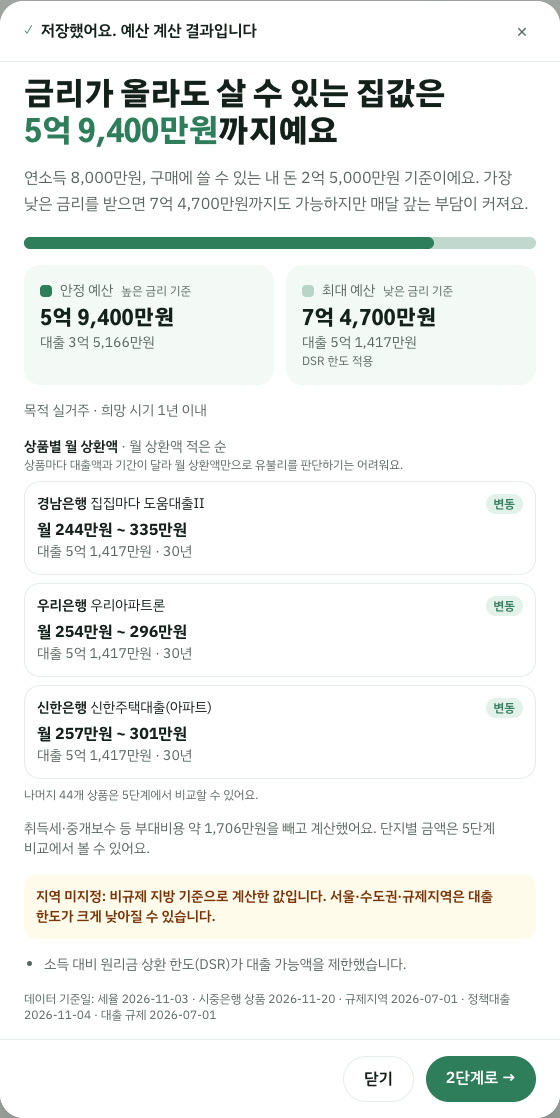
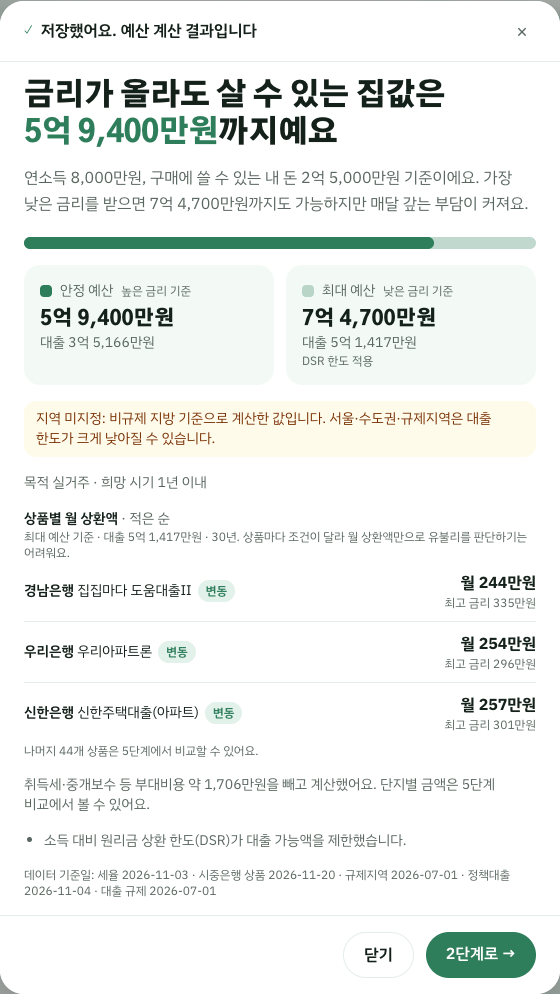
fix(budget): 지역 안내를 예산 숫자 바로 아래로, 상품 대출 기준은 제목에 한 번만
- '지역 미지정' 안내가 맨 아래에 있어 숫자만 보고 떠나기 쉬웠다. 헤드라인 바로 아래로 옮기고 강조를 낮췄다
- 상품 대출액(최대 예산 기준)이 헤드라인(안정 예산)과 달라 헷갈렸다. 제목에 '최대 예산 기준 · 대출 · 기간'을 밝히고
  카드마다 반복되던 대출·기간을 지워 한 줄 목록으로. 상품마다 다르면 줄마다 표시

Changed region(s): [[0.0304, 0.0, 0.9714, 0.9356], [0.7589, 0.9356, 0.9714, 0.998], [0.6375, 0.9356, 0.6982, 0.9668]]

diff --git a/apps/web/app/plans/[planId]/_components/BudgetCard.tsx b/apps/web/app/plans/[planId]/_components/BudgetCard.tsx
@@ -59,6 +59,10 @@ export function BudgetCard({ result, flat = false, income, detail = false }: { r
       ) : (
         <div className="space-y-4 text-sm">
           <BudgetHeadline data={data} income={income} />
+          {/* 헤드라인 숫자의 전제라 숫자 바로 아래에 둔다 */}
+          {data.diagnoses.includes("region_unspecified") && (
+            <p className="rounded-xl bg-amber-50 px-3 py-2 text-amber-900">{DIAGNOSES.region_unspecified}</p>
+          )}
           {data.profile_summary && (
             <p className="text-chb-muted">
               {[data.profile_summary.purpose && `목적 ${PURPOSE[data.profile_summary.purpose]}`,
@@ -80,9 +84,6 @@ export function BudgetCard({ result, flat = false, income, detail = false }: { r
           ) : (
             // 예산 계산식이 부대비용을 빼므로 총액은 남긴다. 후보별 내역은 5단계 비교표
             <p className="text-chb-muted">취득세·중개보수 등 부대비용 약 {formatWon(data.costs.total)}을 빼고 계산했어요. 단지별 금액은 5단계 비교에서 볼 수 있어요.</p>
-          )}
-          {data.diagnoses.includes("region_unspecified") && (
-            <p role="alert" className="rounded-xl bg-amber-50 p-3 font-semibold text-amber-900">{DIAGNOSES.region_unspecified}</p>
           )}
           <Diagnoses list={data.diagnoses.filter((d) => d !== "region_unspecified")} detail={detail} />
         </div>
@@ -159,39 +160,45 @@ function BudgetHeadline({ data, income }: { data: Budget; income?: number | null
 const TOP = 3;
 const RATE_TYPE: Record<string, string> = { fixed: "고정", variable: "변동" };
 
-function ProductItem({ p }: { p: ProductPayment }) {
+// 대출액·기간이 모든 상품에서 같으면(대부분) 제목에 한 번만 쓰고 줄마다 반복하지 않는다
+function ProductItem({ p, showLoan }: { p: ProductPayment; showLoan: boolean }) {
   return (
-    <li className="rounded-2xl border border-chb-line p-3">
-      <p className="flex items-start justify-between gap-2">
-        <span className="font-semibold">{p.provider} <span className="font-normal">{p.name}</span></span>
-        {p.rateType && <span className="shrink-0 rounded-full bg-chb-accent-soft px-2 py-0.5 text-xs font-semibold text-chb-accent">{RATE_TYPE[p.rateType] ?? p.rateType}</span>}
-      </p>
-      <p className="mt-1 text-base font-bold text-chb-ink">
+    <li className="flex items-center justify-between gap-3 py-2.5">
+      <span className="min-w-0">
+        <span className="font-semibold">{p.provider}</span> {p.name}
+        {p.rateType && <span className="ml-1.5 rounded-full bg-chb-accent-soft px-2 py-0.5 text-xs font-semibold text-chb-accent">{RATE_TYPE[p.rateType] ?? p.rateType}</span>}
+        {showLoan && <span className="block text-chb-muted">대출 {formatWon(p.loanAmount)} · {p.termYears}년</span>}
+      </span>
+      <span className="shrink-0 text-right text-base font-bold whitespace-nowrap text-chb-ink">
         <span className="sr-only">월 상환액 </span>월 {p.monthlyAtMin === null ? "-" : formatWon(p.monthlyAtMin)}
-        {p.monthlyAtMax !== null && p.monthlyAtMax !== p.monthlyAtMin && ` ~ ${formatWon(p.monthlyAtMax)}`}
-      </p>
-      <p className="text-chb-muted">대출 {formatWon(p.loanAmount)} · {p.termYears}년</p>
+        {p.monthlyAtMax !== null && p.monthlyAtMax !== p.monthlyAtMin && <span className="block text-xs font-normal text-chb-muted">최고 금리 {formatWon(p.monthlyAtMax)}</span>}
+      </span>
     </li>
   );
 }
 
 // 1단계는 월 상환액 적은 순 3개만, 나머지는 5단계에서 고른다. all(리포트)이면 나머지를 접어서 함께. 순위는 추천이 아니다
+// 상품 대출액은 낮은 금리 기준 대출 가능액(최대 예산 쪽)이라 헤드라인(안정 예산)과 다르다는 것을 제목에 밝힌다
 function ProductList({ products, all }: { products: ProductPayment[]; all: boolean }) {
   const sorted = byMonthly(products);
   const rest = all ? sorted.slice(TOP) : [];
+  const same = sorted.every((p) => p.loanAmount === sorted[0].loanAmount && p.termYears === sorted[0].termYears);
+  const list = (ps: ProductPayment[]) => <ul className="divide-y divide-chb-line">{ps.map((p) => <ProductItem key={p.productId} p={p} showLoan={!same} />)}</ul>;
   return (
     <div>
-      <p className="font-semibold">상품별 월 상환액 <span className="font-normal text-chb-muted">· 월 상환액 적은 순</span></p>
-      <p className="mb-2 text-xs text-chb-muted">상품마다 대출액과 기간이 달라 월 상환액만으로 유불리를 판단하기는 어려워요.</p>
-      <ul className="space-y-2">{sorted.slice(0, TOP).map((p) => <ProductItem key={p.productId} p={p} />)}</ul>
-      {!all && sorted.length > TOP && <p className="mt-2 text-xs text-chb-muted">나머지 {sorted.length - TOP}개 상품은 5단계에서 비교할 수 있어요.</p>}
+      <p className="font-semibold">상품별 월 상환액 <span className="font-normal text-chb-muted">· 적은 순</span></p>
+      <p className="text-xs text-chb-muted">
+        최대 예산 기준{same && ` · 대출 ${formatWon(sorted[0].loanAmount)} · ${sorted[0].termYears}년`}. 상품마다 조건이 달라 월 상환액만으로 유불리를 판단하기는 어려워요.
+      </p>
+      {list(sorted.slice(0, TOP))}
+      {!all && sorted.length > TOP && <p className="text-xs text-chb-muted">나머지 {sorted.length - TOP}개 상품은 5단계에서 비교할 수 있어요.</p>}
       {rest.length > 0 && (
-        <details className="group mt-2">
+        <details className="group">
           <summary className="cursor-pointer list-none rounded-full py-2 text-center font-semibold text-chb-accent select-none [&::-webkit-details-marker]:hidden">
             <span className="group-open:hidden">전체 {sorted.length}개 보기 ▾</span>
             <span className="hidden group-open:inline">접기 ▴</span>
           </summary>
-          <ul className="space-y-2">{rest.map((p) => <ProductItem key={p.productId} p={p} />)}</ul>
+          {list(rest)}
         </details>
       )}
     </div>
